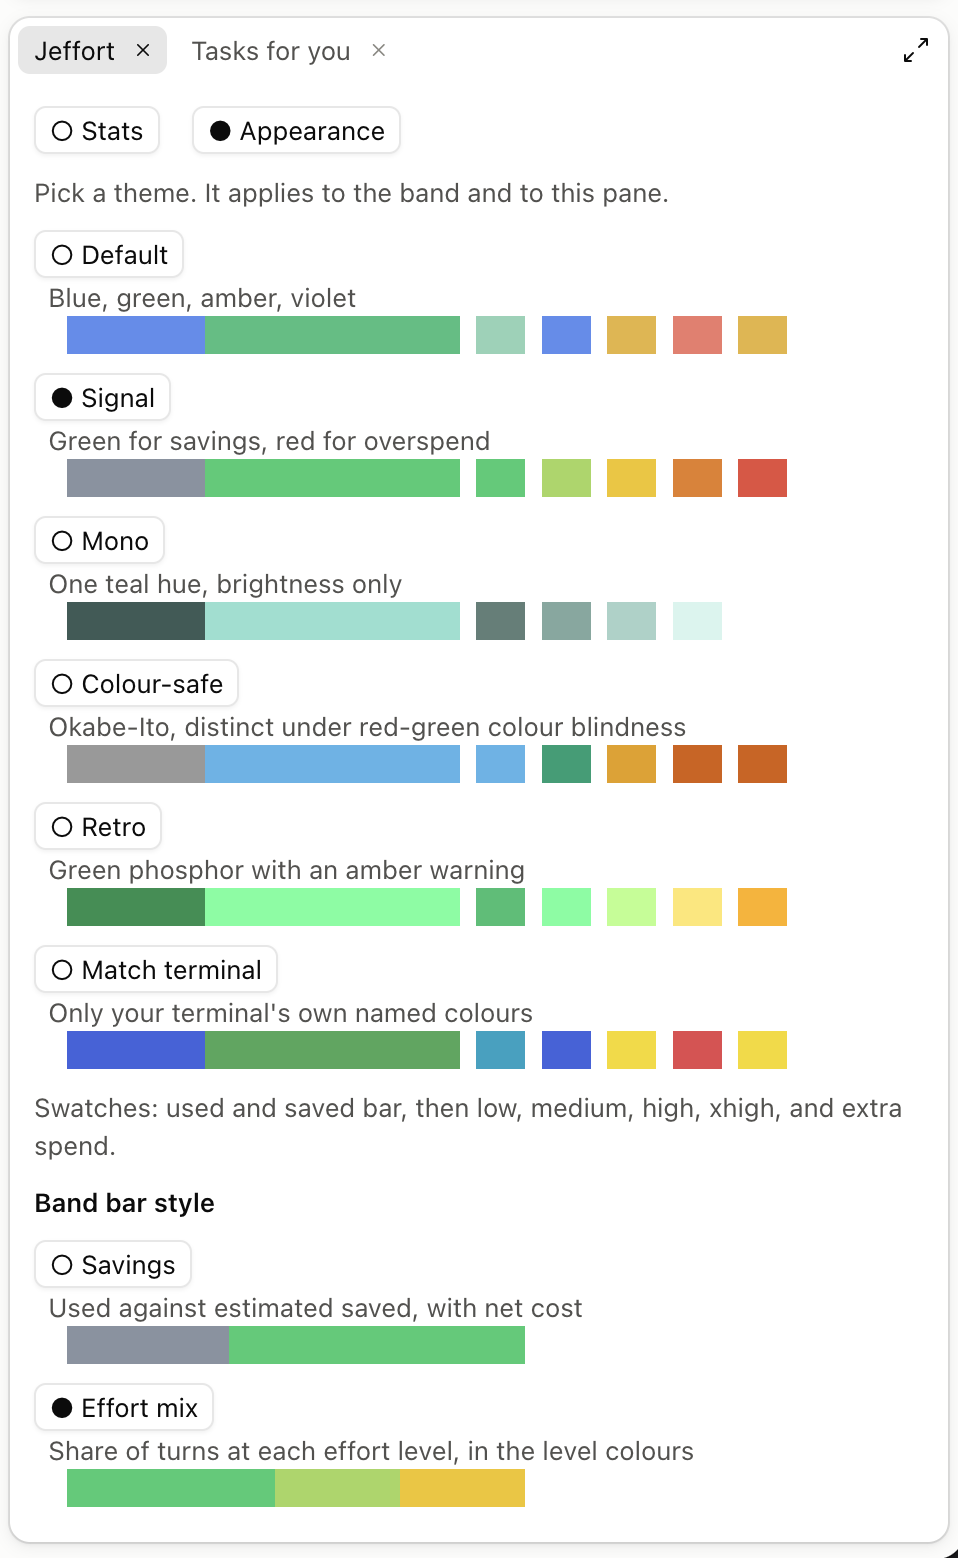
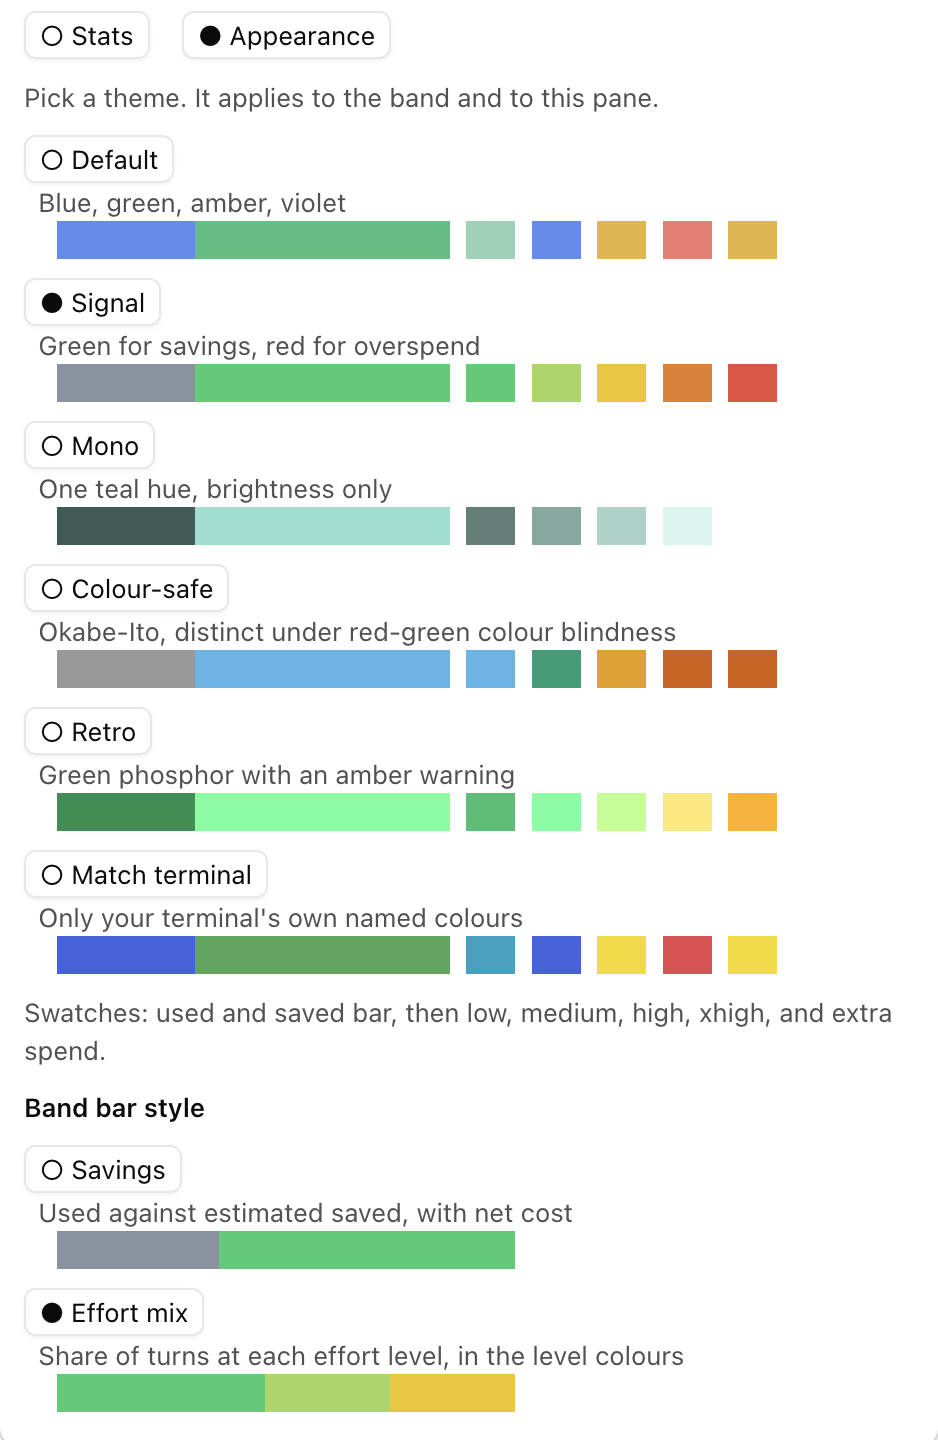
README: plain Markdown images for the desktop shots; crop the unrelated tab from the Appearance shot

Changed region(s): [[0.0, 0.0, 0.9584, 1.0], [0.9893, 0.0312, 1.0, 1.0]]

diff --git a/README.md b/README.md
@@ -41,10 +41,9 @@ The same band and pane work in the Code tab, where the pane docks beside the tra
 
 ![The Jeffort band in the desktop app: medium (was high), a bar split low 14%, medium 79%, high 7%, net ~$0.21](docs/images/desktop-band.png)
 
-<p>
-  <img src="docs/images/desktop-pane-stats.png" alt="The Jeffort pane's Stats tab in the desktop app: session and project totals, and a bar per effort level" width="49%">
-  <img src="docs/images/desktop-pane-appearance.png" alt="The Jeffort pane's Appearance tab in the desktop app: themes with colour swatches, and the Savings and Effort mix bar styles" width="49%">
-</p>
+![The Jeffort pane's Stats tab in the desktop app: session and project totals, and a bar per effort level](docs/images/desktop-pane-stats.png)
+
+![The Jeffort pane's Appearance tab in the desktop app: themes with colour swatches, and the Savings and Effort mix bar styles](docs/images/desktop-pane-appearance.png)
 
 ## Install
 
